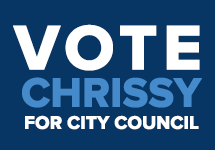
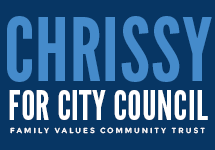
Issues Page WIP
Logo improved, issues page completed, removing old assets

diff --git a/issues.html b/issues.html
@@ -29,23 +29,33 @@
     <div class="page-header">
       <h2>The Issues</h2>
     </div>
-      <h4>Public Safety</h4>
+    <div class="row pull-left issue">
+      <legend><h4>Public Safety</h4></legend>
       <p>If I have learned anything the past five years working with the police department, it is that the best crime fighting tool is the public. It is up to each and every single one of us to help the police department by reporting suspicious or illegal activity to 911. </p>
       <p>As a Councilwoman I will work hard to create a stronger relationship between the police and fire departments, and the communities that they protect. I believe that allowing people to send text messages to 911, or to submit photos of suspicious individuals and vehicles will go a long way to making our neighborhoods safer. The tragic events in Boston showed that when the public works together to fight crime, criminals stand no chance. </p>
       <p>I also believe that we need more police officers and firefighters in our community. When it comes to an emergency every second matters. Public safety should NEVER be compromised to save a few dollars. I pledge that I will not vote for any budget that includes closures of firehouses or police stations. </p>
-      <h4>Education</h4>
+      </div>
+      <div class="row pull-left issue">
+      <legend><h4>Education</h4></legend>
       <p>We are lucky to live in an area that has two of the best school districts in the City. Many people moved to this community just for the schools. However, fighting between the City and various unions has cost our students millions of dollars. Teachers are over worked and underpaid, they have one of the greatest responsibilities of any society, molding the minds of our kids. We cannot let disagreements get in the way of helping our children. </p>
       <p>In addition to helping create a better working relationship between teachers and the City, it is the responsibility of your elected officials to make sure that our local schools are the best that they can be. I will fight hard for funding to our schools, and make sure that every student has access to a computer while in school.</p>
       <p>Our community has also seen the closure of three local Catholic schools in the past 4 years.  Many other private schools are at risk. Parents who chose to send their children to private school should not be punished by the City with exorbitant taxes and cut backs to school nurses, school bus service or other services that help keep our students safe so that they can learn.</p>
-      <h4>Jobs</h4>
+      </div>
+      <div class="row pull-left issue">
+        <legend><h4>Jobs</h4></legend>
       <p>I started working when I was 16 years old and then spent 31 years in business. I am the only candidate in this race with significant business experience. Bureaucrats don’t know how to create jobs, they have never managed a sales team, or worked with global partners to expand a business. </p>
       <p>I will bring my knowledge and experience in the business world to the City Council. We should encourage growth and expansion. It should not be more profitable for a business to open in Nassau County or New Jersey then it is to open in Whitestone or Bayside. </p>
       <p>The solution is simple, reduce taxes and reduce regulations on businesses. Provide incentives to small business owners that reward them for hiring local people. </p>
-      <h4>City Services</h4>
-      <p>I am tired of paying more taxes for fewer services. Bus and subways fares are going up while service is going down. Water rates are skyrocketing. Cut backs in the sanitation department means less reliable garbage pick up. A tough economy is not an excuse to reduce the services that New Yorkers expect and deserve. </p>
-      <h4>Budget</h4>
+      </div>
+      <div class="row pull-left issue">
+      <legend><h4>Budget</h4></legend>
       <p>I have experience working with million dollar budgets and ensuring that every penny is wisely spent.  I will fight tirelessly for funding to our schools, parks, senior centers, and libraries. I will use my discretionary funding to support institutions and organizations that have a real impact in Northeast Queens.</p>
       <p>I pledge to continue the Participatory Budgeting program that allows residents to submit ideas of projects to be funded and then vote on which projects receive money. There is no greater example of transparent democracy then allowing you to decide where your tax dollars go.</p>
+      </div>
+      <div class="row pull-left issue">
+        <legend><h4>City Services</h4></legend>
+      <p>I am tired of paying more taxes for fewer services. Bus and subways fares are going up while service is going down. Water rates are skyrocketing. Cut backs in the sanitation department means less reliable garbage pick up. A tough economy is not an excuse to reduce the services that New Yorkers expect and deserve. </p>
+    </div>
   </div>
   <div class="footer">
     <div class="container">

diff --git a/css/style.css b/css/style.css
@@ -133,11 +133,11 @@ div.tweet {
 /* About Page */
 
 div.about-body {
-	font-family: 'Helvetica Neue', Helvetica, Arial, sans-serif;
-	color: #000;
 	font-size: 16px;
-	line-height:  32px;
+	color: #333;
 	font-weight: 300;
+	line-height: 25px;
+	font-family:  Helvetica, Arial, sans-serif;
 	text-align: justify;
 	text-indent: 40px;
 }
@@ -178,4 +178,16 @@ div.about-body {
 	width: 90%;
 	font-size: 90%;
 	margin: 0 auto;
+}
+
+/* Issues Page*/
+
+.issue {
+	text-align: justify;
+	margin-bottom: 50px;
+	font-size: 16px;
+	color: #333;
+	font-weight: 300;
+	line-height: 25px;
+	font-family:  Helvetica, Arial, sans-serif;
 }
